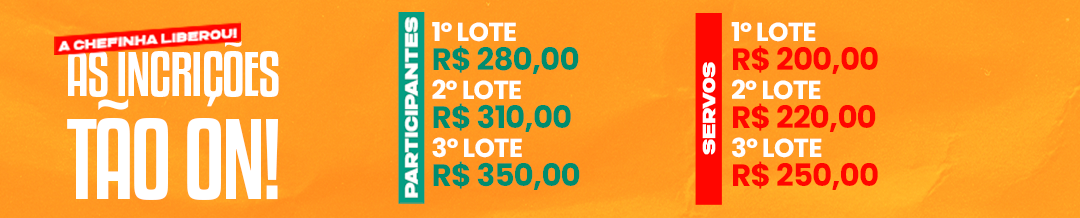
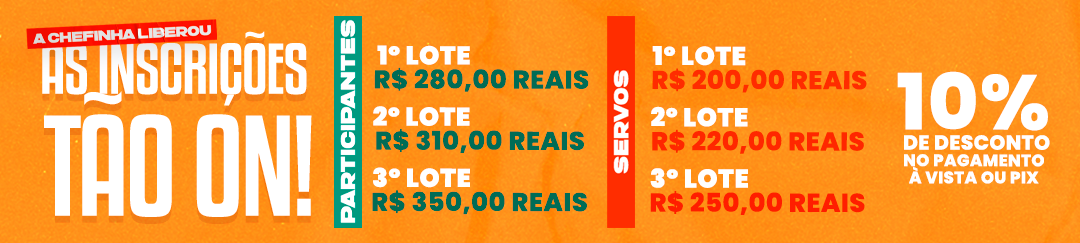
feat: update payment data to 2º ticket

diff --git a/src/components/modals/ModalSendPayment/index.tsx b/src/components/modals/ModalSendPayment/index.tsx
@@ -125,14 +125,14 @@ export function ModalSendPayment({
             <VStack>
               <Stack spacing="10" direction={['column', 'row']}>
                 <VStack spacing="5">
-                  <Text fontWeight="bold">INSCRIÇÃO ONLINE (1º Lote)</Text>
+                  <Text fontWeight="bold">INSCRIÇÃO ONLINE (2º Lote)</Text>
                   <Box mb="1rem">
                     <Text fontWeight="medium">
                       Page via PIX e ganhe 10% de desconto
                     </Text>
                     <Box>
-                      <Text>Participantes: R$ 252,00</Text>
-                      <Text>Servos: R$ 180,00</Text>
+                      <Text>Participantes: R$ 279,00</Text>
+                      <Text>Servos: R$ 198,00</Text>
                     </Box>
                     <Text mt="1rem">
                       <Text fontWeight="medium">Chave pix:</Text>{' '}
@@ -151,18 +151,18 @@ export function ModalSendPayment({
                     <Text fontWeight="medium">Pague em até 3X no cartão</Text>
                     <Link
                       target="_blank"
-                      href="https://link.ton.com.br/?id=ca341ec2-977a-4e0c-8041-52fcc021e7d2"
+                      href="https://link.ton.com.br/?id=bd1bb75c-a563-43f4-9812-6b8f515ae22c"
                     >
                       <Text color="blue" textDecoration="underline" mb="10px">
-                        R$ 280,00 - Pagar no cartão (Participantes)
+                        R$ 310,00 - Pagar no cartão (Participantes)
                       </Text>
                     </Link>
                     <Link
                       target="_blank"
-                      href="https://link.ton.com.br/?id=24cb042d-ce44-44aa-8e51-4aaa2757b698"
+                      href="https://link.ton.com.br/?id=abb65fbd-dad7-47cd-b865-3926807b3ba9"
                     >
                       <Text color="blue" textDecoration="underline">
-                        R$ 200,00 - Pagar no cartão (Servos)
+                        R$ 220,00 - Pagar no cartão (Servos)
                       </Text>
                     </Link>
                   </Box>

diff --git a/src/pages/index.tsx b/src/pages/index.tsx
@@ -8,9 +8,9 @@ import { RegistrationForm } from '@/components/forms/composites/RegistrationForm
 import { Header } from '@/components/Header';
 import { useAuth } from '@/hooks/auth';
 
-import acampsBeachImage from '../../public/assets/AcampsBeach.png';
-import acampsBeachFooterImage from '../../public/assets/AcampsBeachFooter.png';
-import lotesImage from '../../public/assets/Lotes.png';
+import acampsBeachFooterImage from '../../public/assets/acamps-beach-footer.png';
+import acampsBeachImage from '../../public/assets/acamps-beach-header.png';
+import lotesImage from '../../public/assets/lotes.png';
 
 export default function Home() {
   const { user } = useAuth();

diff --git a/src/components/Footer/index.tsx b/src/components/Footer/index.tsx
@@ -58,8 +58,8 @@ export function Footer() {
         </Flex>
 
         <Flex justifyContent="space-between" alignItems="center" w="12rem">
-          <Image src="/assets/icone1.png" alt="Logo Shalom" w="5rem" />
-          <Image src="/assets/icone2.png" alt="Juventude" w="5rem" />
+          <Image src="/assets/icone-shalom.png" alt="Logo Shalom" w="5rem" />
+          <Image src="/assets/icone-pjj.png" alt="Juventude" w="5rem" />
         </Flex>
       </Flex>
     </Box>

diff --git a/src/components/Header/index.tsx b/src/components/Header/index.tsx
@@ -37,7 +37,7 @@ export function Header() {
         <Flex width={['20', '35', '40']} height={['30', '25', '20']}>
           <Flex width="100%" height="100%" position="relative">
             <Image
-              src="/assets/icone1.png"
+              src="/assets/icone-shalom.png"
               alt="Logo Shalom"
               fill
               objectFit="cover"

diff --git a/src/components/forms/composites/RegistrationForm/index.tsx b/src/components/forms/composites/RegistrationForm/index.tsx
@@ -310,7 +310,7 @@ export function RegistrationForm() {
   return (
     <Flex bg="white" direction="column" align="center" justify="center">
       <Image
-        src="/assets/FormularioDeInscrição.png"
+        src="/assets/formulario-inscricao.png"
         alt="Acamps Beach Formulario Logo"
         w={['10rem', '20rem']}
         m="2rem"
